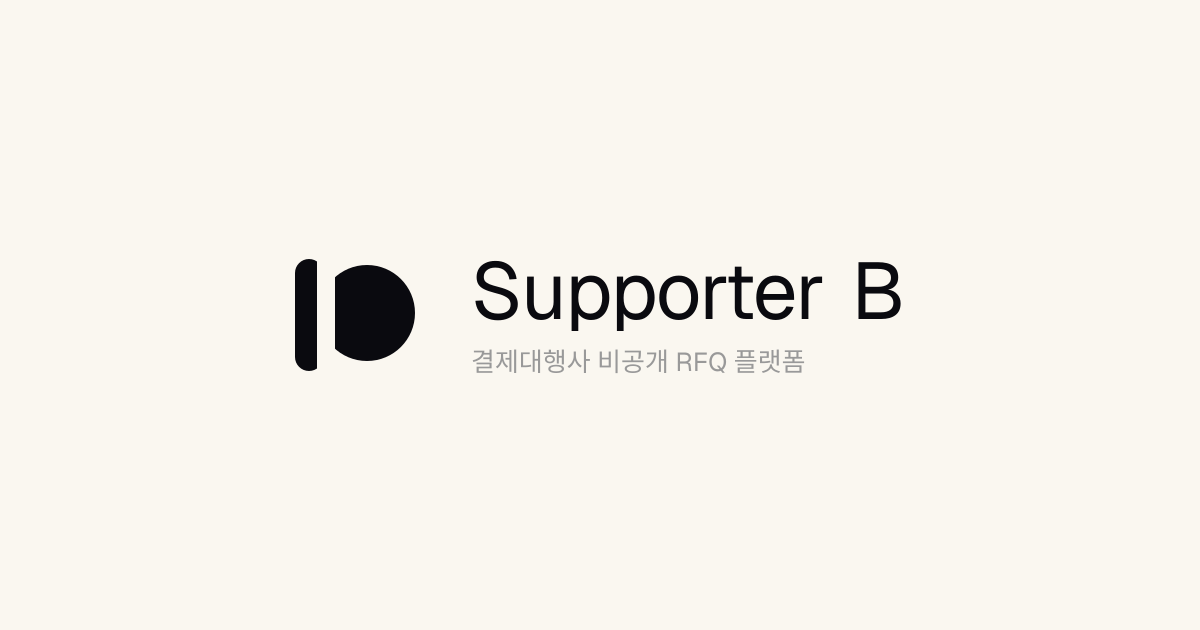
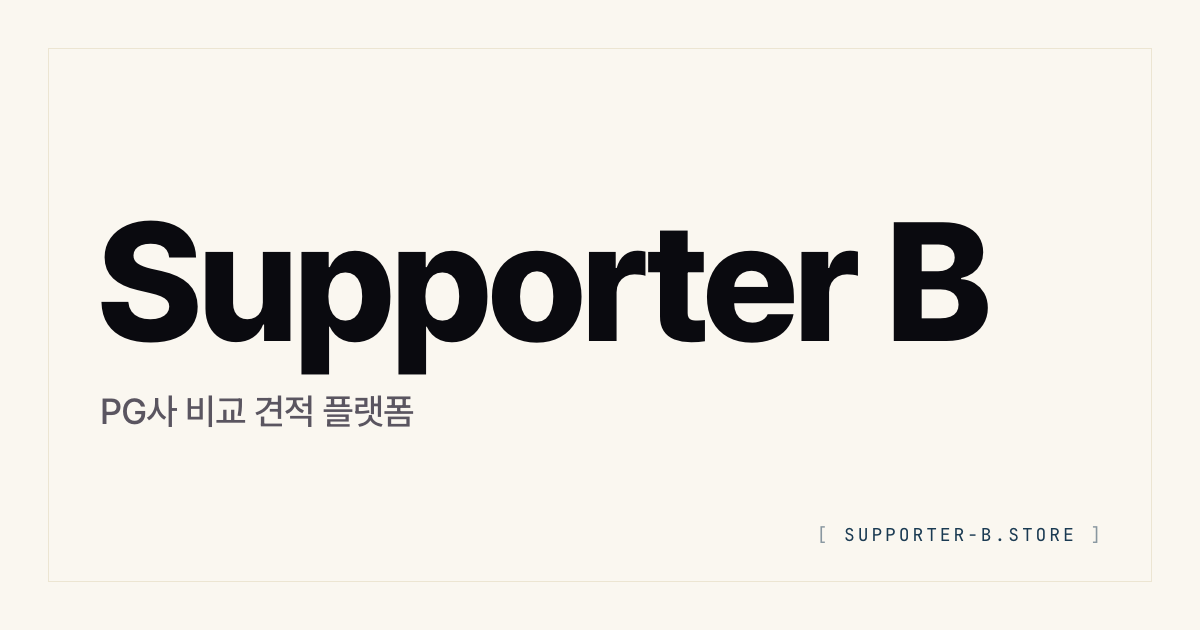
chore(og): OG 이미지 문구를 'PG사 비교 견적 플랫폼'으로 업데이트

Changed region(s): [[0.0617, 0.3317, 0.8325, 0.6937], [0.7092, 0.8143, 0.8942, 0.8746]]

diff --git a/scripts/generate-og-image.ts b/scripts/generate-og-image.ts
@@ -105,7 +105,7 @@ function ogHtml(pretendard: string, jetbrains: string) {
 
   <div class="hero">
     <div class="wordmark">Supporter B</div>
-    <div class="subline">다수의 PG사의 견적을 비교하여 최적의 견적을 받아보세요</div>
+    <div class="subline">PG사 비교 견적 플랫폼</div>
   </div>
 
   <div class="corner bot-right mono"><span class="b">[</span>&nbsp;SUPPORTER-B.STORE&nbsp;<span class="b">]</span></div>
